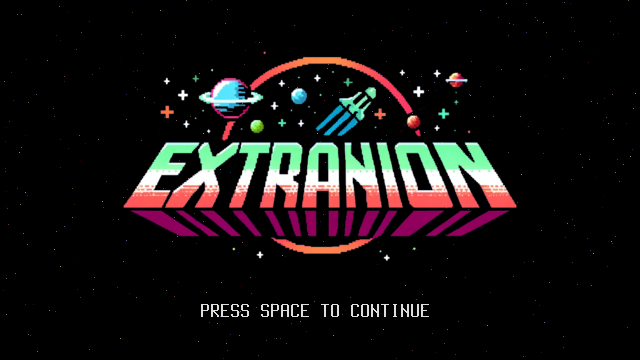
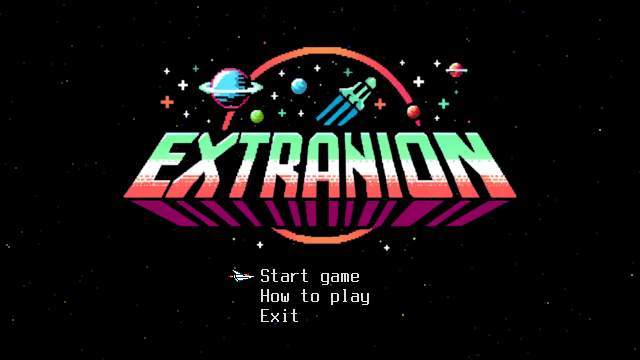
update

Changed region(s): [[0.1875, 0.1222, 0.8125, 0.7333], [0.3125, 0.7333, 0.6875, 0.9167]]

diff --git a/README.md b/README.md
@@ -8,4 +8,5 @@ The mechanics are simple, kill all of them!
 You gain points and charge by killing enemies. Charge can be used for rapid fire. Dont waste it!
 
 ![Extranion Intro](screenshot-1.png)
-![Extranion Gameplay](screenshot-2.png)
+![Extranion Start](screenshot-2.png)
+![Extranion Gameplay](screenshot-3.png)
